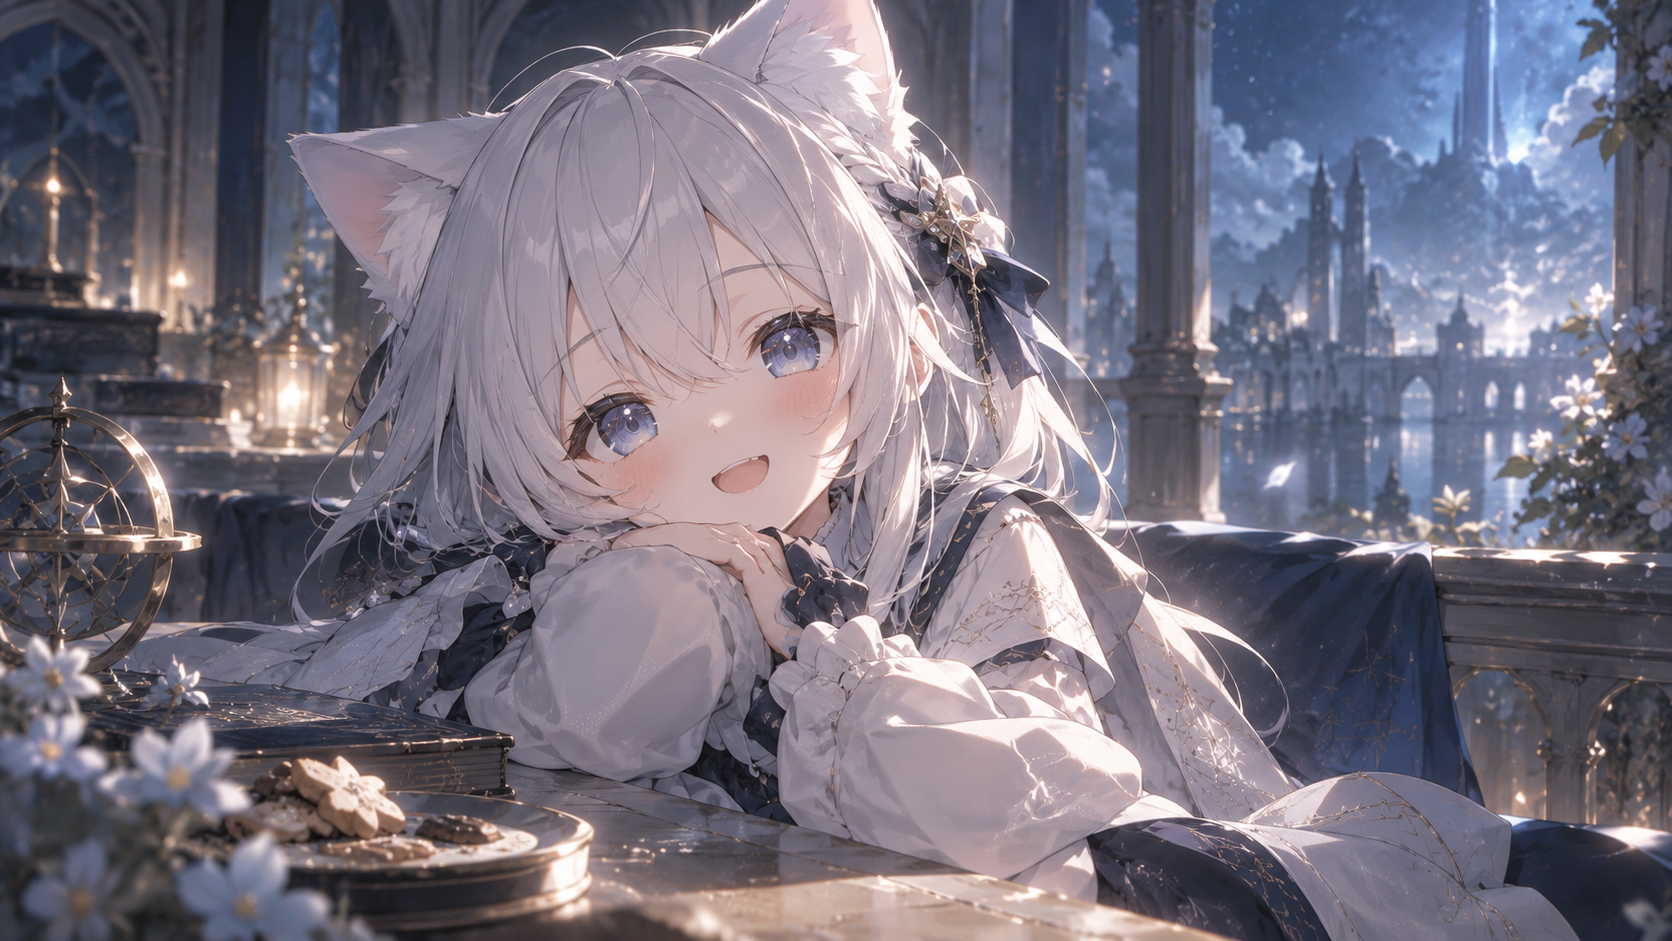
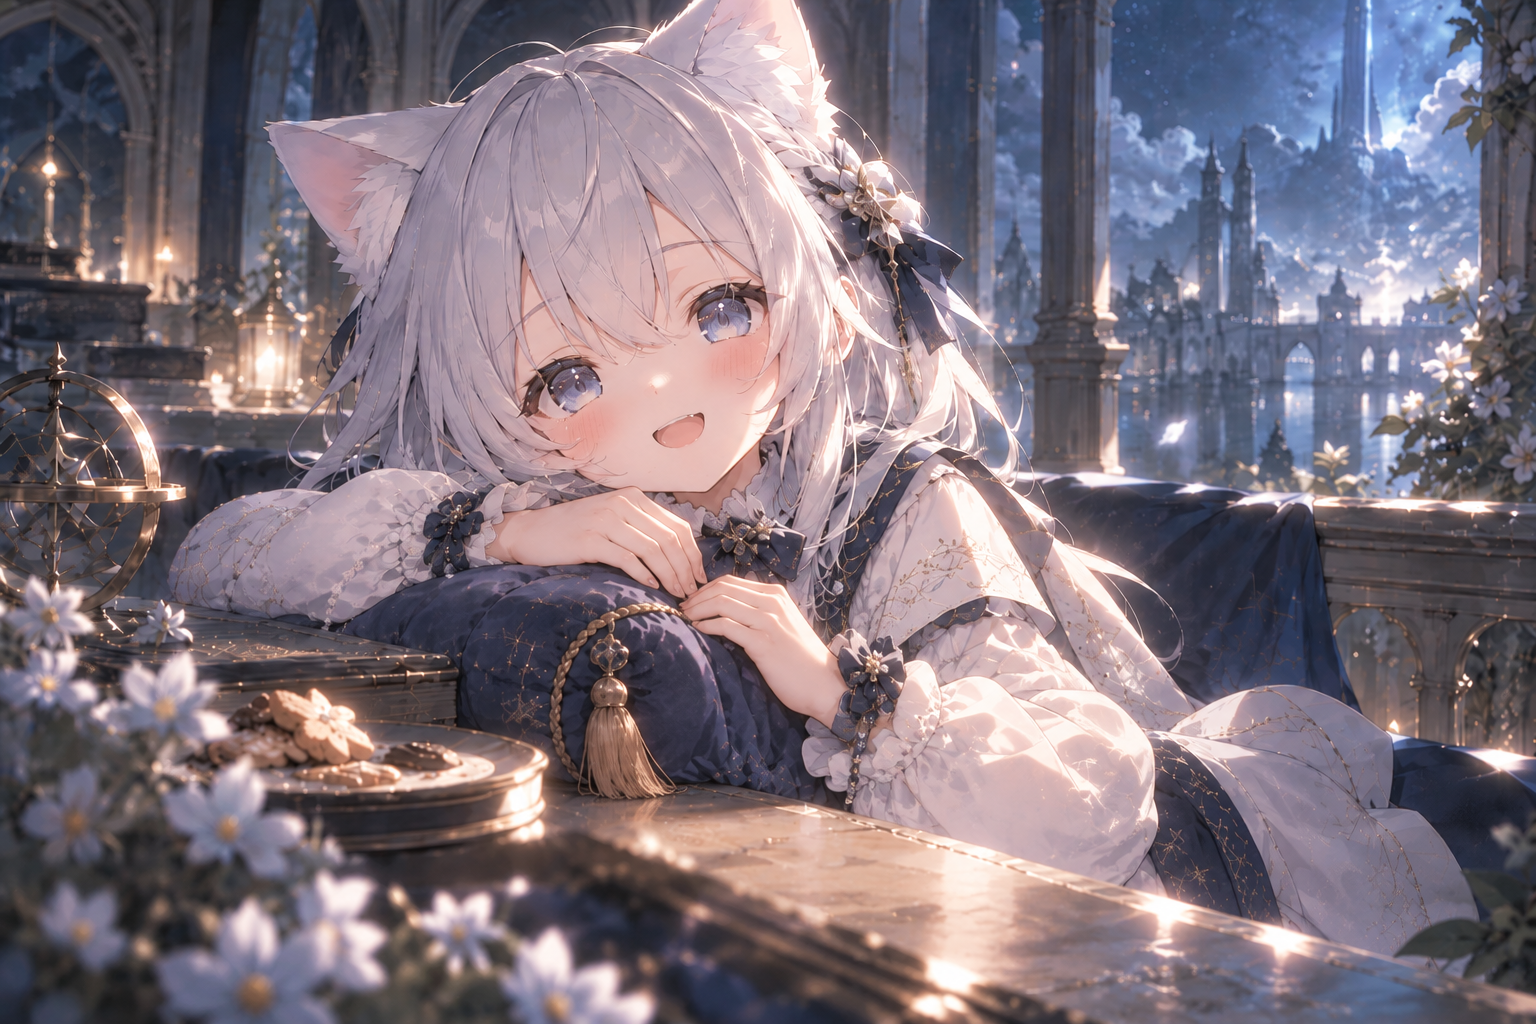
Add files via upload

diff --git a/README.md b/README.md
@@ -177,3 +177,9 @@ v0.3はv0.2系と別のlocalStorageキーを使用。
   の各シーンで表示
 - スマホ向け切り出し画像 `world-0001-photo-mobile.png` を追加
 - 画面幅が狭い時はスマホ向け画像を自動表示
+
+
+## v0.3.8 Last Days Image Replacement
+- `RECORD 040 / LAST DAYS` のおやつシーン画像を、手の自然さを修正した新版イラストに差し替え
+- `last-days-photo.png` を更新
+- `last-days-photo-mobile.png` も新版から再切り出し
